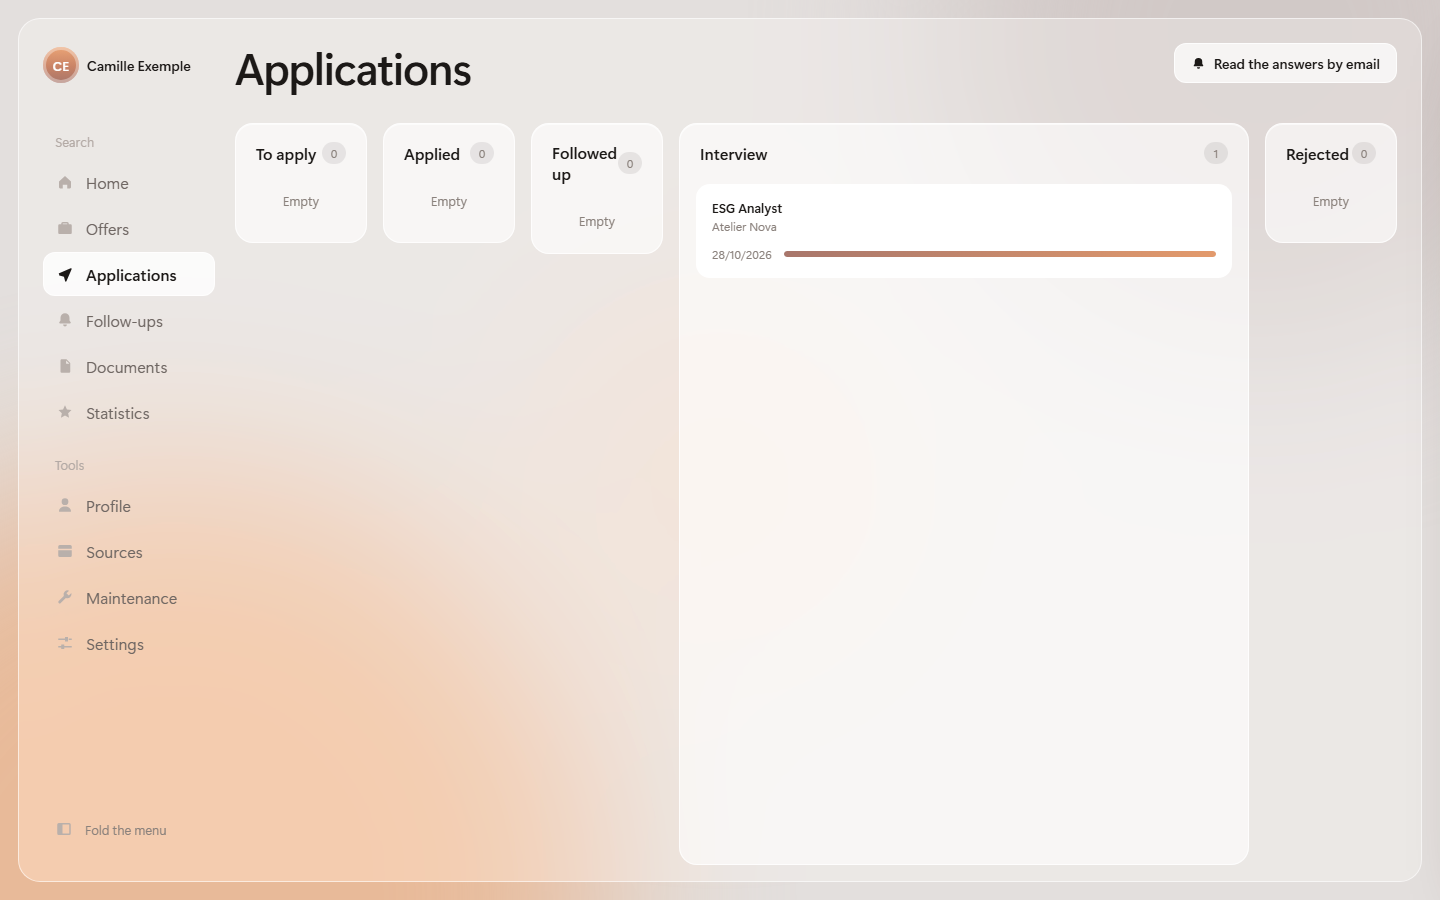
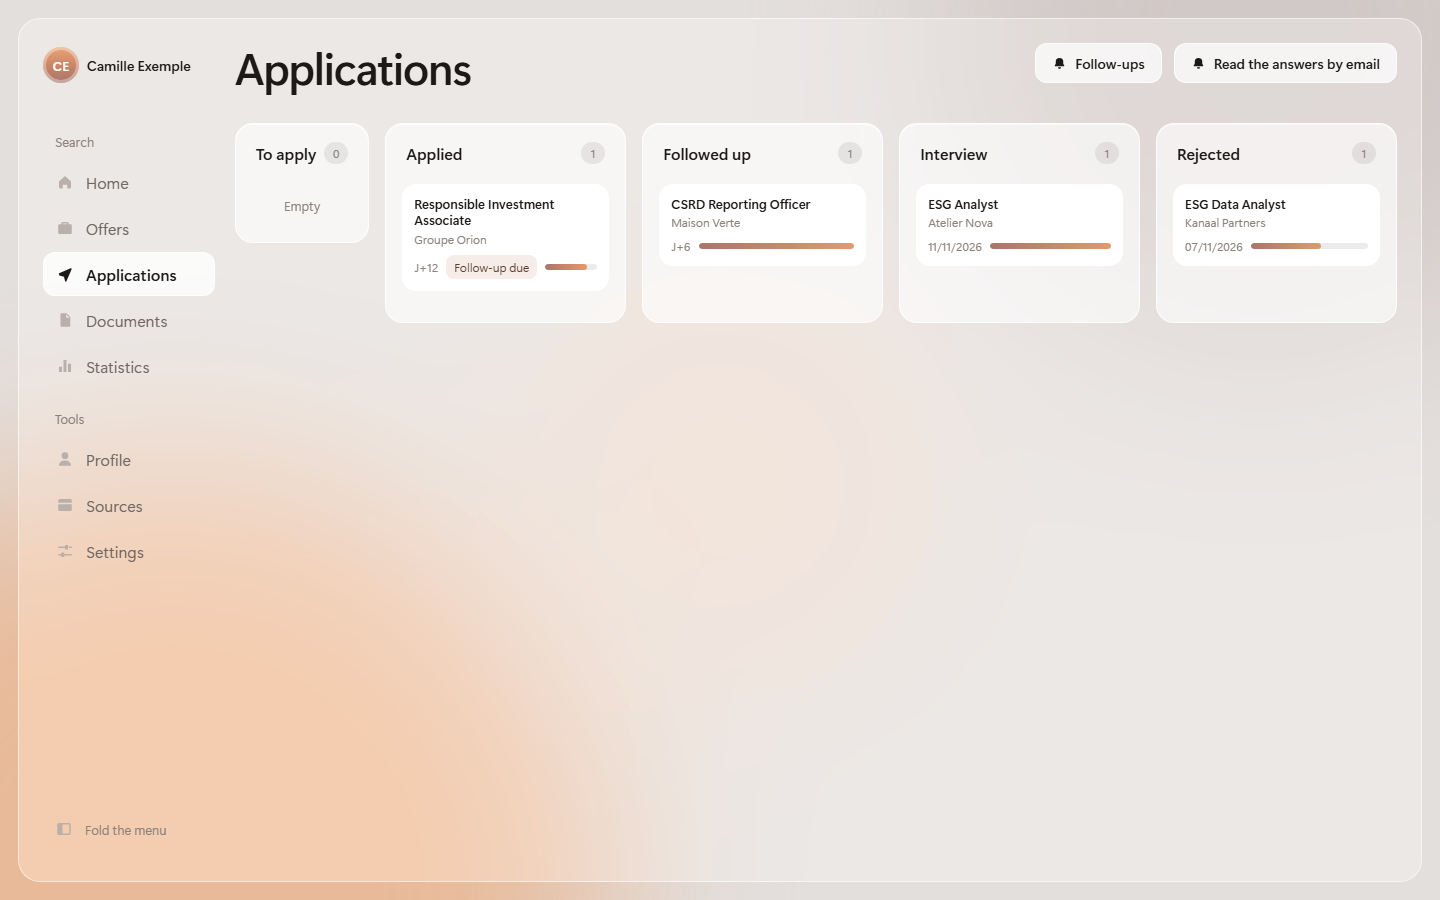
Home: followed offers no longer « to process »; sandbox with four applications; fresh screenshots (#213)
* Home: offers already followed no longer « to process »; sandbox with four applications; README and Store screenshots of today

- The home screen counted as « notées 8+ à traiter », and listed among the best
  offers, offers one had already applied to or dismissed: the offers screen's
  « À traiter » leaves out every offer in the applications, the home screen did not.
  On the real queue, 27 such offers: 2 964 counted, 2 937 now. Test red before.
- The sandbox and the screenshots' folder get one application per board column
  (applied 12 days ago with its follow-up due, followed up, interview, rejected),
  dated from today, so the board, the follow-ups and the statistics show something.
- README (en) and Store (fr) screenshots regenerated with tools/screenshots.py: the
  ones of 3.52 still showed the star and lightning icons DESIGN.md removed, and the
  old menu.

* One follow-up threshold (7 days) everywhere; collect --fusion-seule on a folder never scanned

- The app marked an application « Relance due » after 7 days, `jobhunter relances`
  and the weekly metrics after 10. The first draft is the J+7 template: one constant,
  storage.applications.JOURS_RELANCE = 7, used by the three. On the real applications
  it changes nothing today (8 to follow up at 7 days as at 10).
- `jobhunter collect --fusion-seule` crashed with FileNotFoundError in a folder that
  never collected (seen in a new sandbox): it now says there is no scan to merge and
  returns 0.

---------

diff --git a/src/jobhunter/web/api.py b/src/jobhunter/web/api.py
@@ -22,6 +22,7 @@ from pathlib import Path
 from typing import Any
 
 from jobhunter.storage import atomic as _atomique
+from jobhunter.storage.applications import JOURS_RELANCE as _JOURS_RELANCE
 from jobhunter.storage.applications import SuiviIllisible as _SuiviIllisible
 from jobhunter.storage.queue import oid as _oid  # one key definition (audit 2026-11-03)
 from jobhunter.web.background import FondApi
@@ -38,7 +39,7 @@ ENVOYEES = ("postulé", "relancé", "entretien", "refus")
 # Entries of the follow-up file that are not applications (offer set aside).
 ECARTEES = ("mauvaise", "pas intéressé", "expiré")
 # A follow-up is due after this many days (the J+7 template).
-JOURS_RELANCE = 7
+JOURS_RELANCE = _JOURS_RELANCE  # storage.applications: one threshold everywhere
 _RX_SCAN = re.compile(r"^Scan (\d{4}-\d{2}-\d{2})$")
 # A profile switch: seconds the old window stays once the new one says it is drawn.
 RELAIS_MARGE = 0.25
@@ -111,7 +112,12 @@ def tableau(
     derniers = sorted(scans)[-7:]
     collecte = [{"jour": j, "n": scans[j]} for j in derniers]
 
-    a_traiter = [o for o in offres if _RX_SCAN.match(str(o.get("statut") or ""))]
+    # To process, as on the offers screen: from a scan, and not followed yet. An offer one
+    # had applied to (or dismissed) still counted among « notées 8+ à traiter » and
+    # showed among the best offers (2026-11-11).
+    a_traiter = [
+        o for o in offres if _RX_SCAN.match(str(o.get("statut") or "")) and _oid(o) not in suivi
+    ]
     # Six at most: the page shows as many as the chart beside them is tall (ajusterAccueil).
     meilleures = sorted(a_traiter, key=lambda o: (-_fit(o), -_fit(o, "fit_fin")))[:6]
 

diff --git a/src/jobhunter/programs/sandbox.py b/src/jobhunter/programs/sandbox.py
@@ -103,6 +103,13 @@ with queue_io.transaction() as q:
 """
 
 
+def _il_y_a(jours: int) -> str:
+    """The date `jours` days ago, as the applications write it (YYYY-MM-DD)."""
+    import datetime
+
+    return (datetime.date.today() - datetime.timedelta(days=jours)).isoformat()
+
+
 def preparer(racine: Path) -> None:
     """The fictitious data folder, in the 3.0 layout."""
     jour = time.strftime("%Y-%m-%d")
@@ -157,7 +164,24 @@ def preparer(racine: Path) -> None:
             "s": "entretien",
             "d": jour,
             "h": [["2026-10-01", "postulé"], [jour, "entretien"]],
-        }
+        },
+        # 3.87: one application per column, so the board, the follow-ups and the
+        # statistics show something (one card alone looked like an empty application)
+        "Groupe Orion|Responsible Investment Associate": {
+            "s": "postulé",
+            "d": _il_y_a(12),
+            "h": [[_il_y_a(12), "postulé"]],
+        },
+        "Maison Verte|CSRD Reporting Officer": {
+            "s": "relancé",
+            "d": _il_y_a(6),
+            "h": [[_il_y_a(27), "postulé"], [_il_y_a(6), "relancé"]],
+        },
+        "Kanaal Partners|ESG Data Analyst": {
+            "s": "refus",
+            "d": _il_y_a(4),
+            "h": [[_il_y_a(18), "postulé"], [_il_y_a(4), "refus"]],
+        },
     }
     (racine / "data" / "applications.json").write_text(
         json.dumps(suivi, ensure_ascii=False, indent=1), encoding="utf-8"

diff --git a/src/jobhunter/programs/follow_ups.py b/src/jobhunter/programs/follow_ups.py
@@ -83,7 +83,7 @@ SUIVI = _racine.dans(_racine.scripts(), "suivi.json")
 RELANCE_STATUTS = ("postulé", "relancé")
 
 
-def a_relancer(days=10):
+def a_relancer(days=suivi_io.JOURS_RELANCE):
     """ "postulé/relancé" applications for ≥ days days (suivi.json).
     Returns [(offer, status, date, age_days)] from oldest to most recent."""
     from datetime import date, datetime
@@ -209,7 +209,12 @@ def mark(key):
 
 def main(argv=None):
     ap = argparse.ArgumentParser()
-    ap.add_argument("--days", type=int, default=10, help="seuil jours sans réponse (défaut 10)")
+    ap.add_argument(
+        "--days",
+        type=int,
+        default=suivi_io.JOURS_RELANCE,
+        help=f"seuil jours sans réponse (défaut {suivi_io.JOURS_RELANCE})",
+    )
     ap.add_argument("--jours", type=int, default=7, choices=[7, 10], help="template J+7 ou J+10")
     ap.add_argument("--draft", help='"Entreprise|Poste" → brouillon .txt + mailto (TU envoies)')
     ap.add_argument("--mark", help='"Entreprise|Poste" → statut relancé (date du jour)')

diff --git a/tests/test_seuil_relance_et_fusion.py b/tests/test_seuil_relance_et_fusion.py
@@ -1,0 +1,24 @@
+"""One follow-up threshold everywhere; `collect --fusion-seule` on a folder never scanned."""
+
+import inspect
+
+from jobhunter.programs import follow_ups, weekly_metrics
+from jobhunter.storage import applications
+from jobhunter.web import api
+
+
+def test_un_seul_seuil_de_relance():
+    # The app said 7 days, `jobhunter relances` and the weekly metrics 10 (2026-11-11).
+    assert applications.JOURS_RELANCE == 7  # the first draft is the J+7 template
+    assert api.JOURS_RELANCE == applications.JOURS_RELANCE
+    assert weekly_metrics.RELANCE_JOURS == applications.JOURS_RELANCE
+    defaut = inspect.signature(follow_ups.a_relancer).parameters["days"].default
+    assert defaut == applications.JOURS_RELANCE
+
+
+def test_fusion_seule_sans_scan_ne_plante_pas(tmp_path, monkeypatch, capsys):
+    from jobhunter.sources import cli
+
+    monkeypatch.setattr(cli, "FRESH", tmp_path / "scanned_offers.json")
+    assert cli.main(["--fusion-seule"]) == 0
+    assert "Aucun scan à fusionner" in capsys.readouterr().out

diff --git a/tests/test_web_api.py b/tests/test_web_api.py
@@ -49,6 +49,20 @@ def test_meilleures_seulement_a_traiter_par_fit_puis_fit_fin():
     assert d["stats"]["neuf"] == 2
 
 
+def test_l_accueil_ne_compte_pas_les_offres_deja_suivies_comme_a_traiter():
+    # As the offers screen's « À traiter »: an offer applied to or dismissed is no longer
+    # among the best offers nor in « notées 8+ à traiter » (2026-11-11).
+    file = [_offre("A", "a", 10), _offre("B", "b", 9), _offre("C", "c", 9)]
+    suivi = {
+        "A|a": {"s": "relancé", "d": "2026-10-20"},
+        "C|c": {"s": "mauvaise", "d": "2026-10-24"},
+    }
+    d = tableau(file, suivi, JOUR)
+    assert [o["entreprise"] for o in d["meilleures"]] == ["B"]
+    assert d["stats"]["neuf"] == 1
+    assert offres(file, suivi)["total"] == 1  # the same count as the offers screen
+
+
 def test_relances_apres_sept_jours_et_candidatures_sans_les_ecartees():
     suivi = {
         "A|a": {"s": "postulé", "d": "2026-10-10"},

diff --git a/src/jobhunter/sources/cli.py b/src/jobhunter/sources/cli.py
@@ -254,6 +254,11 @@ def main(argv: Sequence[str] | None = None) -> int:
         return 3
 
     if a.fusion_seule:
+        # A folder that never collected has no scan to merge: say so, do not crash
+        # (FileNotFoundError in a new sandbox, 2026-11-11).
+        if not FRESH.is_file():
+            print(f"Aucun scan à fusionner : {FRESH.name} absent.")  # noqa: T201
+            return 0
         return _fusionner(json.loads(FRESH.read_text(encoding="utf-8")), a.dry)
     # `monde` in the profile (first launch since 3.53): false = the home country only,
     # a list = the home country and those countries; absent = the whole world.

diff --git a/src/jobhunter/storage/applications.py b/src/jobhunter/storage/applications.py
@@ -52,6 +52,11 @@ from jobhunter.types import Candidature, Chemin, Preuve, Suivi
 
 CHEMIN = racine.dans(racine.scripts(), "suivi.json")
 
+# Days without an answer before an application is due a follow-up: the first draft is
+# the J+7 template. One threshold for the app, `jobhunter relances` and the weekly
+# metrics: the app said 7 days, the two programs 10 (2026-11-11).
+JOURS_RELANCE = 7
+
 
 class VerrouIndisponible(RuntimeError):
     """Another program is modifying the tracker and did not release it in time."""

diff --git a/src/jobhunter/programs/weekly_metrics.py b/src/jobhunter/programs/weekly_metrics.py
@@ -33,8 +33,8 @@ LOGS = _racine.scripts() / "_logs"
 EN_ATTENTE = ("postulé", "relancé")
 REPONSES = ("entretien", "refus")
 ENVOYEES = EN_ATTENTE + REPONSES
-# Same threshold as relances.a_relancer() by default.
-RELANCE_JOURS = 10
+# The app's and `relances`' threshold (storage.applications.JOURS_RELANCE).
+RELANCE_JOURS = suivi_io.JOURS_RELANCE
 
 _MERGE = re.compile(r"Merge[^:\n]*: \+(\d+) nouvelles")
 _LOG_DATE = re.compile(r"pipeline_(\d{4}-\d{2}-\d{2})_\d{4}\.log$")
